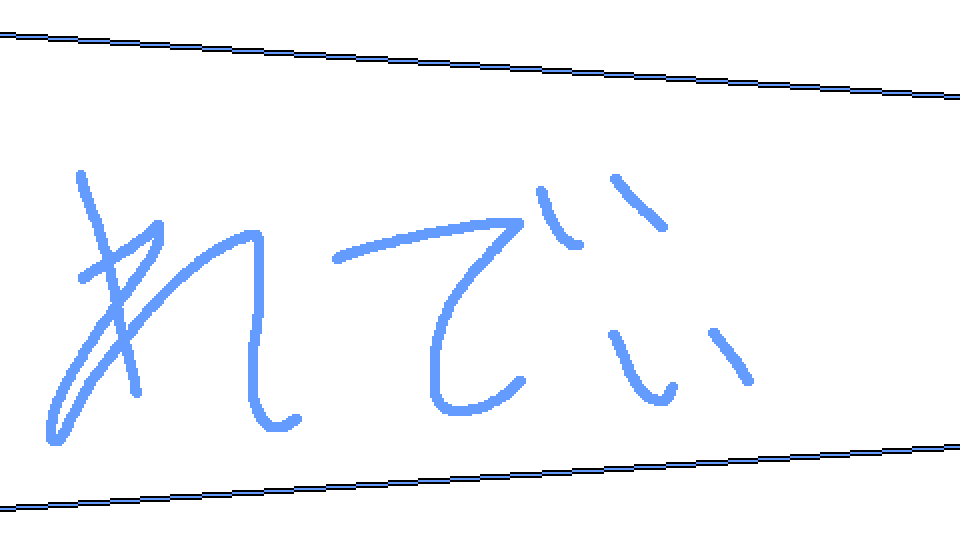
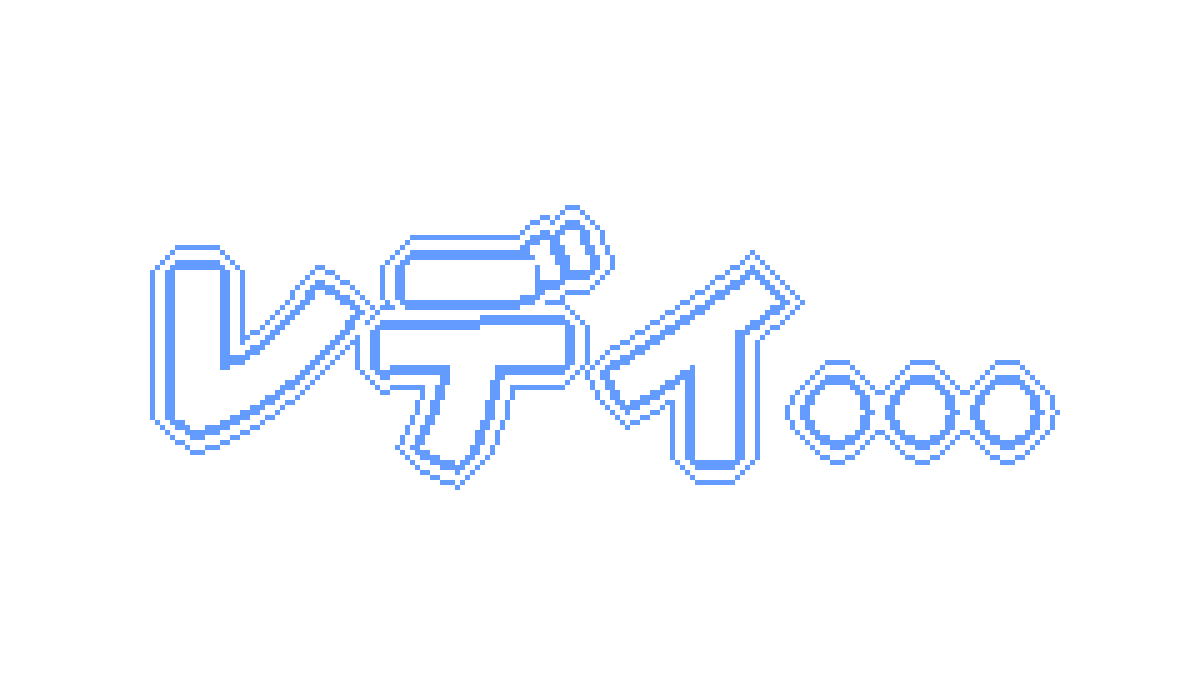
試合開始をぷよぷよっぽくした

Changed region(s): [[0.0312, 0.2963, 0.9062, 0.8296], [0.0, 0.8, 1.0, 0.9481], [0.0, 0.0593, 1.0, 0.2074]]

diff --git a/Project/Application/Scenes/TestScene.cpp b/Project/Application/Scenes/TestScene.cpp
@@ -254,6 +254,21 @@ namespace KashipanEngine {
 			Application::MatsumotoUtility::FitSpriteToTexture(gameStartSprite_);
 			Application::MatsumotoUtility::SetTranslateToSprite(gameStartSprite_, Vector2(cx, cy));
 		}
+		{
+			auto obj = std::make_unique<Sprite>();
+			obj->SetName("GameStartGoSprite");
+			obj->SetUniqueBatchKey();
+			obj->SetAnchorPoint(0.5f, 0.5f);
+			if (auto* mat = obj->GetComponent2D<Material2D>()) {
+				mat->SetColor(Vector4(1.0f, 1.0f, 1.0f, 1.0f));
+				mat->SetTexture(TextureManager::GetTextureFromFileName("GameStartGO.png"));
+			}
+			menuSprites.push_back(obj.get());
+			obj->AttachToRenderer(sceneDefaultVariables_->GetMainWindow(), "Object2D.DoubleSidedCulling.BlendNormal");
+			gameStartGoSprite_ = obj.get();
+			AddObject2D(std::move(obj));
+			Application::MatsumotoUtility::SetTranslateToSprite(gameStartGoSprite_, Vector2(cx, cy));
+		}
 
         // ================================================================
         // BGM
@@ -437,6 +452,15 @@ namespace KashipanEngine {
 			startGameSpriteScale.x = Application::MatsumotoUtility::SimpleEaseIn(startGameSpriteScale.x, 0.0f, 0.3f);
 			startGameSpriteScale.y = Application::MatsumotoUtility::SimpleEaseIn(startGameSpriteScale.y, 0.0f, 0.3f);
 			Application::MatsumotoUtility::SetScaleToSprite(gameStartSprite_, startGameSpriteScale);
+			// GOスプライトは透明にしながら拡大させる
+			Vector3 goSpriteScale = Application::MatsumotoUtility::GetTextureSizeFromSprite(gameStartGoSprite_);
+			Vector4 currentColor = Application::MatsumotoUtility::GetColorFromSprite(gameStartGoSprite_);
+			Vector3 currentScale = Application::MatsumotoUtility::GetScaleFromSprite(gameStartGoSprite_);
+			currentColor.w = Application::MatsumotoUtility::SimpleEaseIn(currentColor.w, 0.0f, 0.1f);
+			currentScale.x = Application::MatsumotoUtility::SimpleEaseIn(currentScale.x, goSpriteScale.x, 0.3f);
+			currentScale.y = Application::MatsumotoUtility::SimpleEaseIn(currentScale.y, goSpriteScale.y, 0.3f);
+			Application::MatsumotoUtility::SetColorToSprite(gameStartGoSprite_, currentColor);
+			Application::MatsumotoUtility::SetScaleToSprite(gameStartGoSprite_, currentScale);
 
 			// プレイヤー1 更新（キーボード/コントローラー）
 			player1_.Update(deltaTime, GetInputCommand());
@@ -471,6 +495,11 @@ namespace KashipanEngine {
 
 			// 勝敗判定
 			CheckWinCondition();
+		}
+
+		// ゲーム開始前のスプライトモーション
+		if(!gameStartSystem_.IsGameStarted()) {
+			Application::MatsumotoUtility::RotateSprite(gameStartSprite_, Vector3(0.0f, 3.14f * deltaTime,0.0f));
 		}
 
 		// ゲームオーバー後の自動シーン遷移処理

diff --git a/Project/Application/MatsumotoUtility.cpp b/Project/Application/MatsumotoUtility.cpp
@@ -178,6 +178,20 @@ void Application::MatsumotoUtility::ChangeSpriteColorRGB(KashipanEngine::Sprite*
 	}
 }
 
+Vector3 Application::MatsumotoUtility::GetTextureSizeFromSprite(KashipanEngine::Sprite* sprite)
+{
+	Vector3 result;
+	if (!sprite) return result;
+	if (auto *mat = sprite->GetComponent2D<KashipanEngine::Material2D>()) {
+		auto textureHandle = mat->GetTexture();
+		if (textureHandle == KashipanEngine::TextureManager::kInvalidHandle) return result;
+		auto textureView = KashipanEngine::TextureManager::TextureView(textureHandle);
+		result.x = static_cast<float>(textureView.GetWidth());
+		result.y = static_cast<float>(textureView.GetHeight());
+	}
+	return result;
+}
+
 float Application::MatsumotoUtility::SimpleEaseIn(float from, float to, float transitionSpeed)
 {
 	float value = from;

diff --git a/Project/Application/MatsumotoUtility.h b/Project/Application/MatsumotoUtility.h
@@ -40,6 +40,8 @@ namespace Application::MatsumotoUtility
 	void RotateSprite(KashipanEngine::Sprite* sprite, Vector3 deltaRotation);
 	/// @brief スプライトの三原色だけを変更する（alphaは変更しない）
 	void ChangeSpriteColorRGB(KashipanEngine::Sprite* sprite, const Vector3& rgb);
+	/// @brief スプライトのテクスチャの大きさを取得
+	Vector3 GetTextureSizeFromSprite(KashipanEngine::Sprite* sprite);
 
 	/// @brief 簡易イージング関数（イージングなしの線形補間に近い挙動）
 	float SimpleEaseIn(float from, float to, float transitionSpeed);

diff --git a/Project/Application/Scenes/TestScene.h b/Project/Application/Scenes/TestScene.h
@@ -52,6 +52,7 @@ private:
 
 	Application::GameStartSystem gameStartSystem_;
 	Sprite* gameStartSprite_ = nullptr;
+	Sprite* gameStartGoSprite_ = nullptr;
 
     Application::PuzzleGameConfig config_;
 
